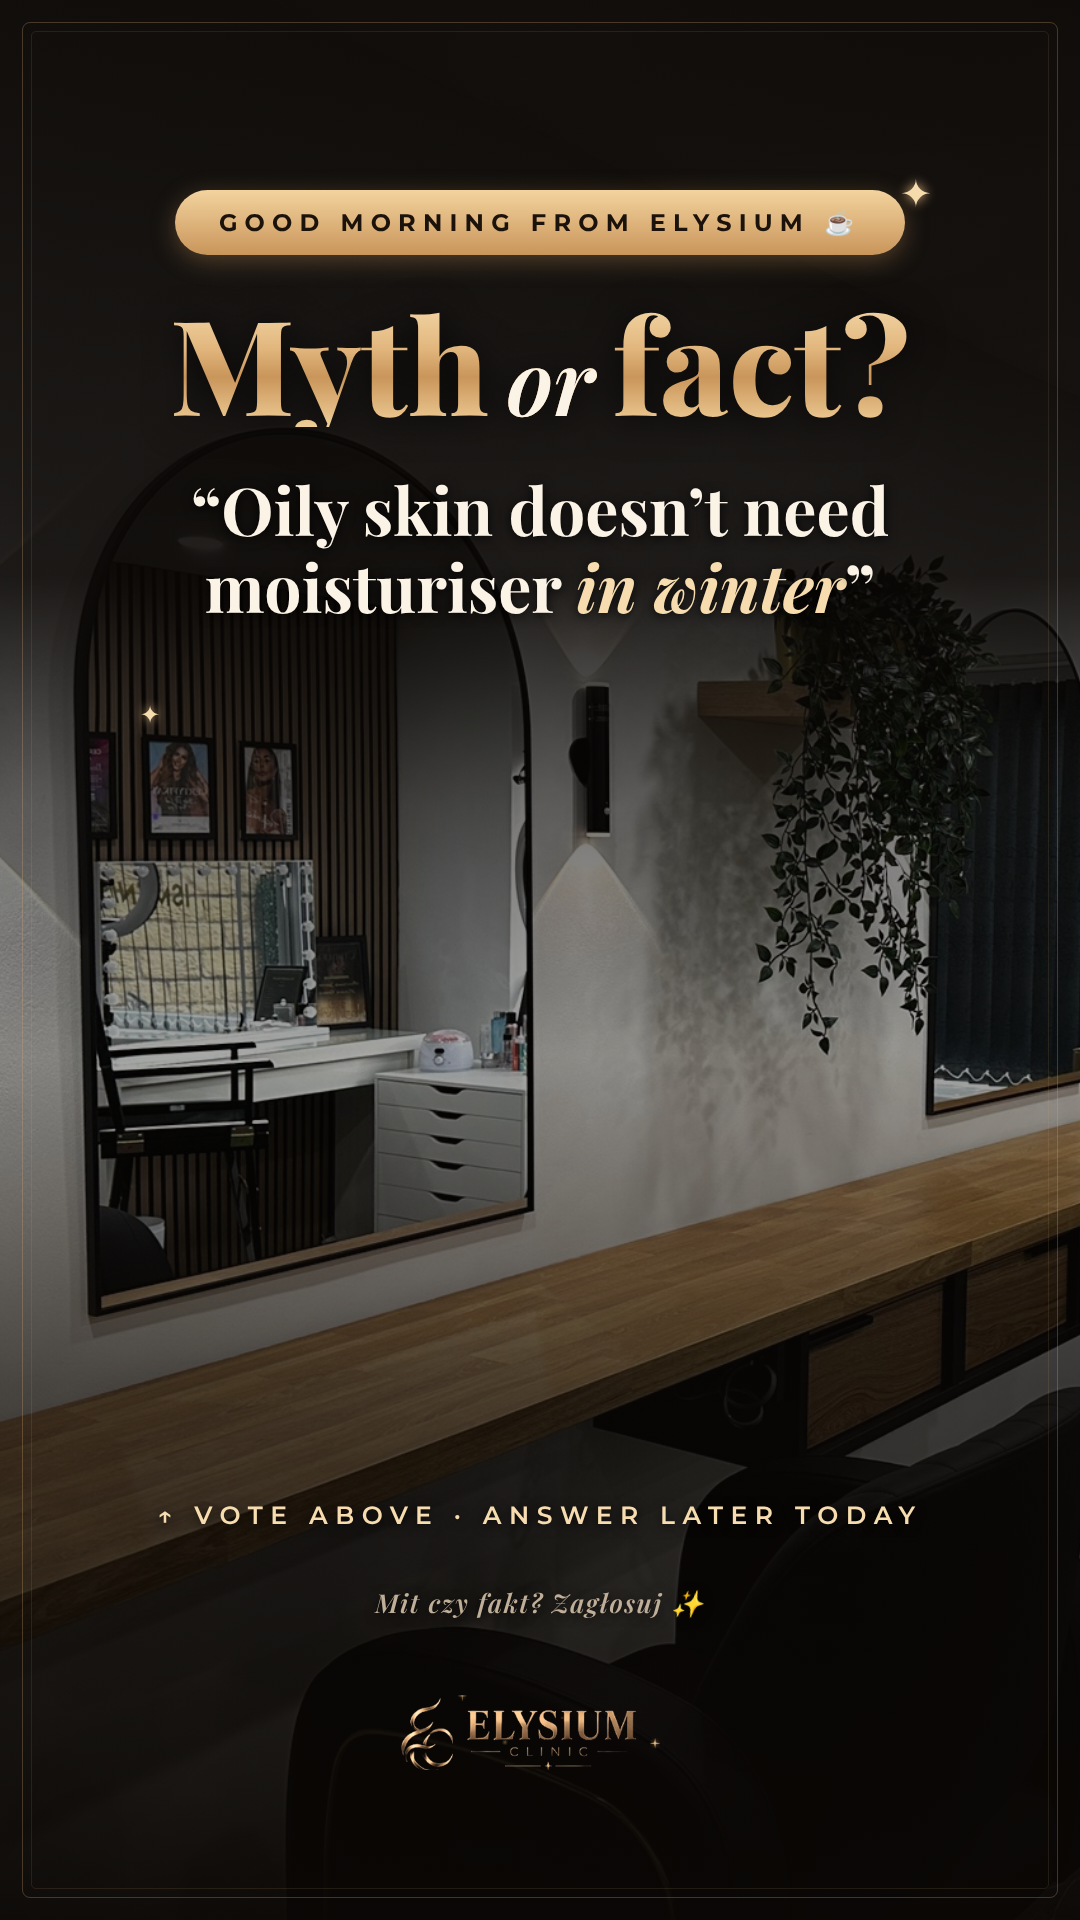
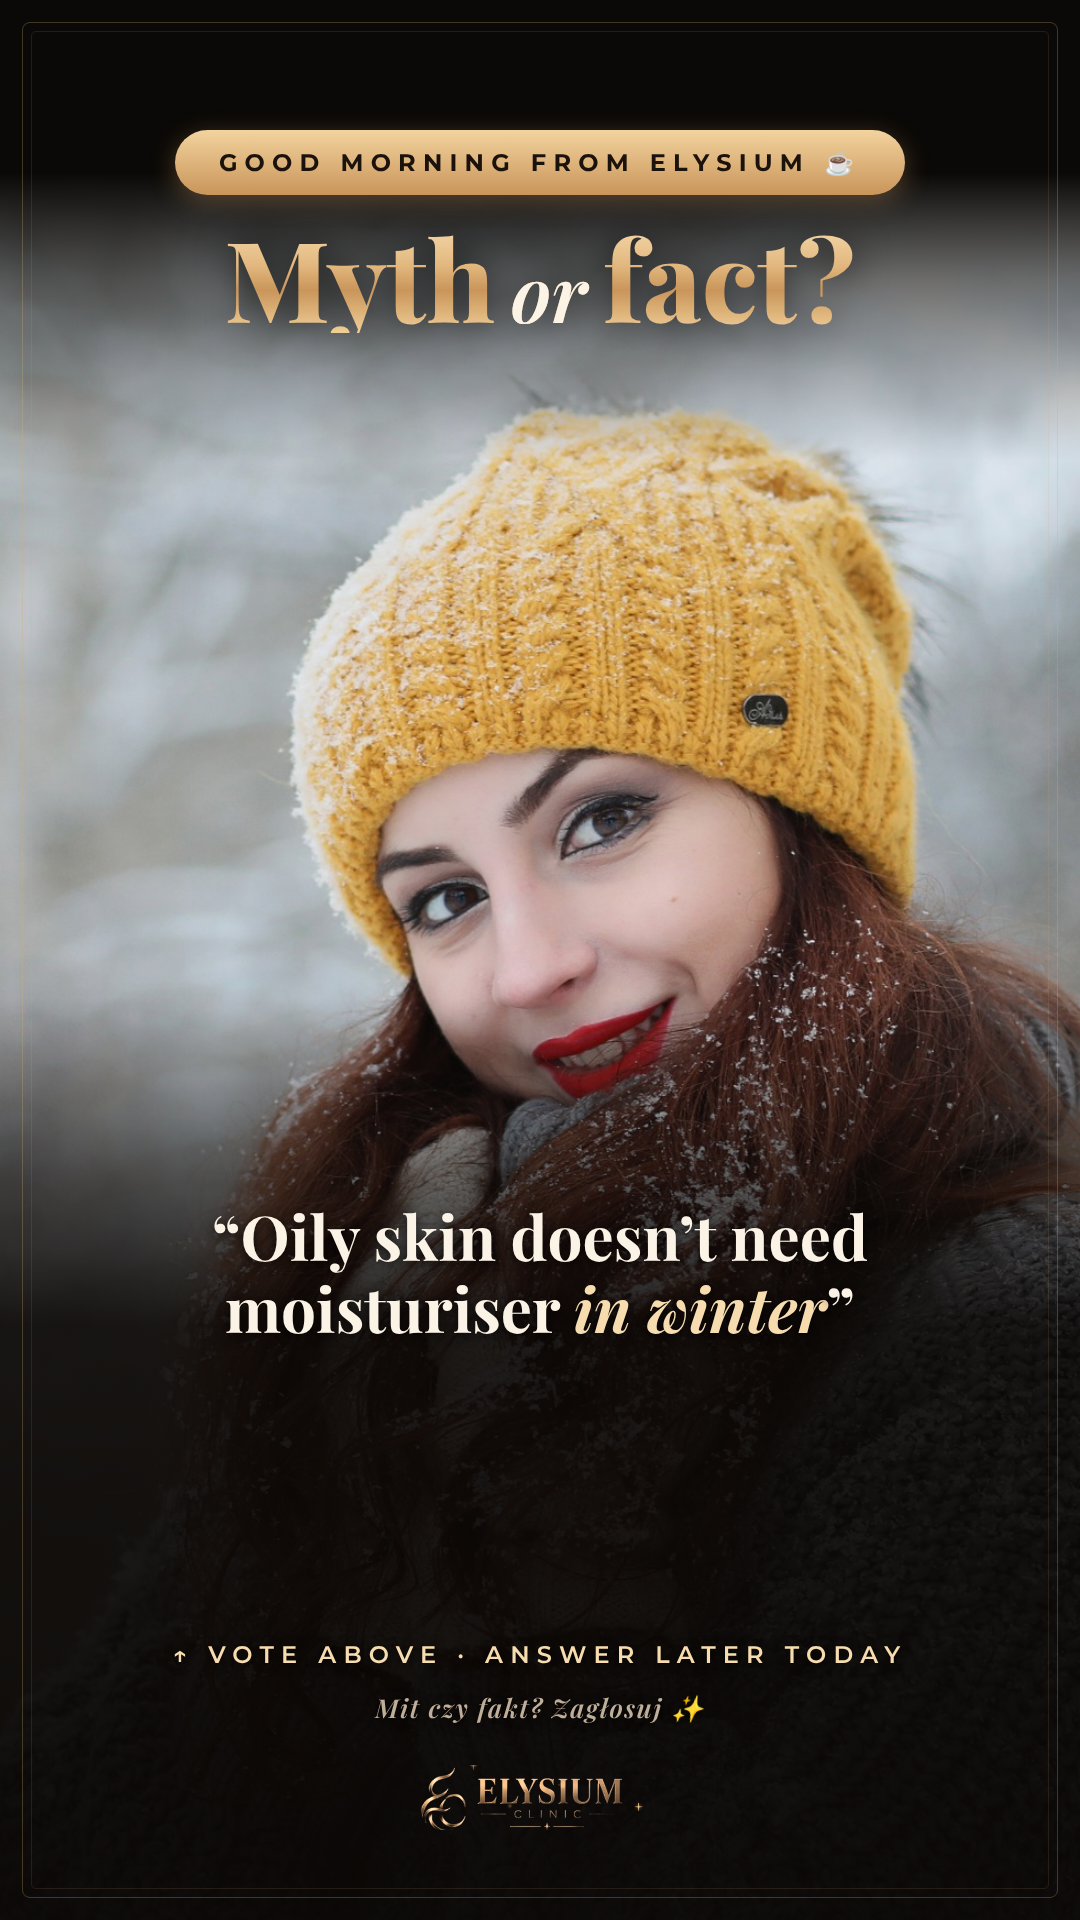
19.11 morning story: winter photo background, layout keeps face clear
Claude-Session: https://claude.ai/code/session_01SaUhS5EeEBn7oMfuXG8zXf

diff --git a/posts_19_11/src/story1_quiz.html b/posts_19_11/src/story1_quiz.html
@@ -1,19 +1,18 @@
 __HEAD__<style>
-.s{background:#0b0907 url(salon.jpg) 28% center/cover no-repeat}
-.shade{position:absolute;inset:0;background:linear-gradient(180deg,rgba(10,7,5,.95) 0%,rgba(10,7,5,.9) 30%,rgba(10,7,5,.55) 42%,rgba(10,7,5,.35) 55%,rgba(10,7,5,.7) 72%,rgba(10,7,5,.96) 100%)}
-.top{position:absolute;top:190px;left:0;right:0;text-align:center}
-.mf{font-size:132px;font-weight:800;line-height:1;margin-top:40px}
-.mf em{font-style:italic;font-weight:600;font-size:90px;color:#fbf3e6;-webkit-text-fill-color:#fbf3e6;margin:0 18px}
-.q{font-size:66px;font-weight:700;line-height:1.16;color:#fbf3e6;margin:44px 80px 0}
+.s{background:#0b0907 url(winter.jpg) center 150px/110% auto no-repeat}
+.shade{position:absolute;inset:0;background:linear-gradient(180deg,#0b0907 0%,#0b0907 9%,rgba(11,9,7,.6) 14.5%,rgba(10,7,5,.08) 24%,rgba(10,7,5,0) 52%,rgba(10,7,5,.55) 61%,rgba(10,7,5,.9) 69%,rgba(10,7,5,.97) 100%)}
+.top{position:absolute;top:130px;left:0;right:0;text-align:center}
+.mf{font-size:112px;font-weight:800;line-height:1;margin-top:26px}
+.mf em{font-style:italic;font-weight:600;font-size:78px;color:#fbf3e6;-webkit-text-fill-color:#fbf3e6;margin:0 16px}
+.q{position:absolute;left:80px;right:80px;top:1200px;text-align:center;font-size:62px;font-weight:700;line-height:1.16;color:#fbf3e6}
 .q em{font-style:italic;color:var(--gold1)}
-.pl{position:absolute;left:0;right:0;top:1585px;text-align:center}
-.hint{position:absolute;left:0;right:0;top:1500px;text-align:center;font-size:25px;letter-spacing:.3em;color:var(--gold1);font-weight:600}
-.logo{bottom:150px;width:280px}
+.hint{position:absolute;left:0;right:0;top:1640px;text-align:center;font-size:24px;letter-spacing:.3em;color:var(--gold1);font-weight:600}
+.pl{position:absolute;left:0;right:0;top:1690px;text-align:center}
+.logo{bottom:90px;width:240px}
 </style></head><body><div class="s"><div class="shade"></div><div class="deco"></div>
-<div class="spark" style="left:900px;top:170px;font-size:38px">✦</div><div class="spark" style="left:140px;top:700px;font-size:24px">✦</div>
 <div class="top"><div class="pill">GOOD MORNING FROM ELYSIUM ☕</div>
-<div class="mf goldtext serif ds">Myth<em>or</em>fact?</div>
-<div class="q serif tsh">“Oily skin doesn’t need moisturiser <em>in winter</em>”</div></div>
+<div class="mf goldtext serif ds">Myth<em>or</em>fact?</div></div>
+<div class="q serif tsh">“Oily skin doesn’t need moisturiser <em>in winter</em>”</div>
 <div class="hint tsh">↑ VOTE ABOVE · ANSWER LATER TODAY</div>
 <div class="pl tsh">Mit czy fakt? Zagłosuj ✨</div>
 <div class="logo"><img src="logo.png"></div></div></body></html>

diff --git a/posts_19_11/teksty.md b/posts_19_11/teksty.md
@@ -39,7 +39,8 @@ Zapisz rolkę, żeby nie zapomnieć 🤍
 ---
 
 ## STORY 1 (8:30): `story1_0830_myth_or_fact.png`
-- **Naklejka „Quiz”** na środku, w pustym miejscu między cytatem a napisem „VOTE ABOVE”.
+- Tło: zimowe zdjęcie (dziewczyna w żółtej czapce, `src/winter.jpg`).
+- **Naklejka „Quiz”** w ciemnym, pustym miejscu między cytatem a napisem „VOTE ABOVE” (dolna część ekranu), tak żeby nie zasłaniała twarzy.
 - Pytanie: „Myth or fact?”. Odpowiedzi: **Myth** (ustaw jako poprawną) / Fact.
 
 ## STORY 1b (bonus, ok. 10:30–11:00): `story1b_answer_myth.png`
